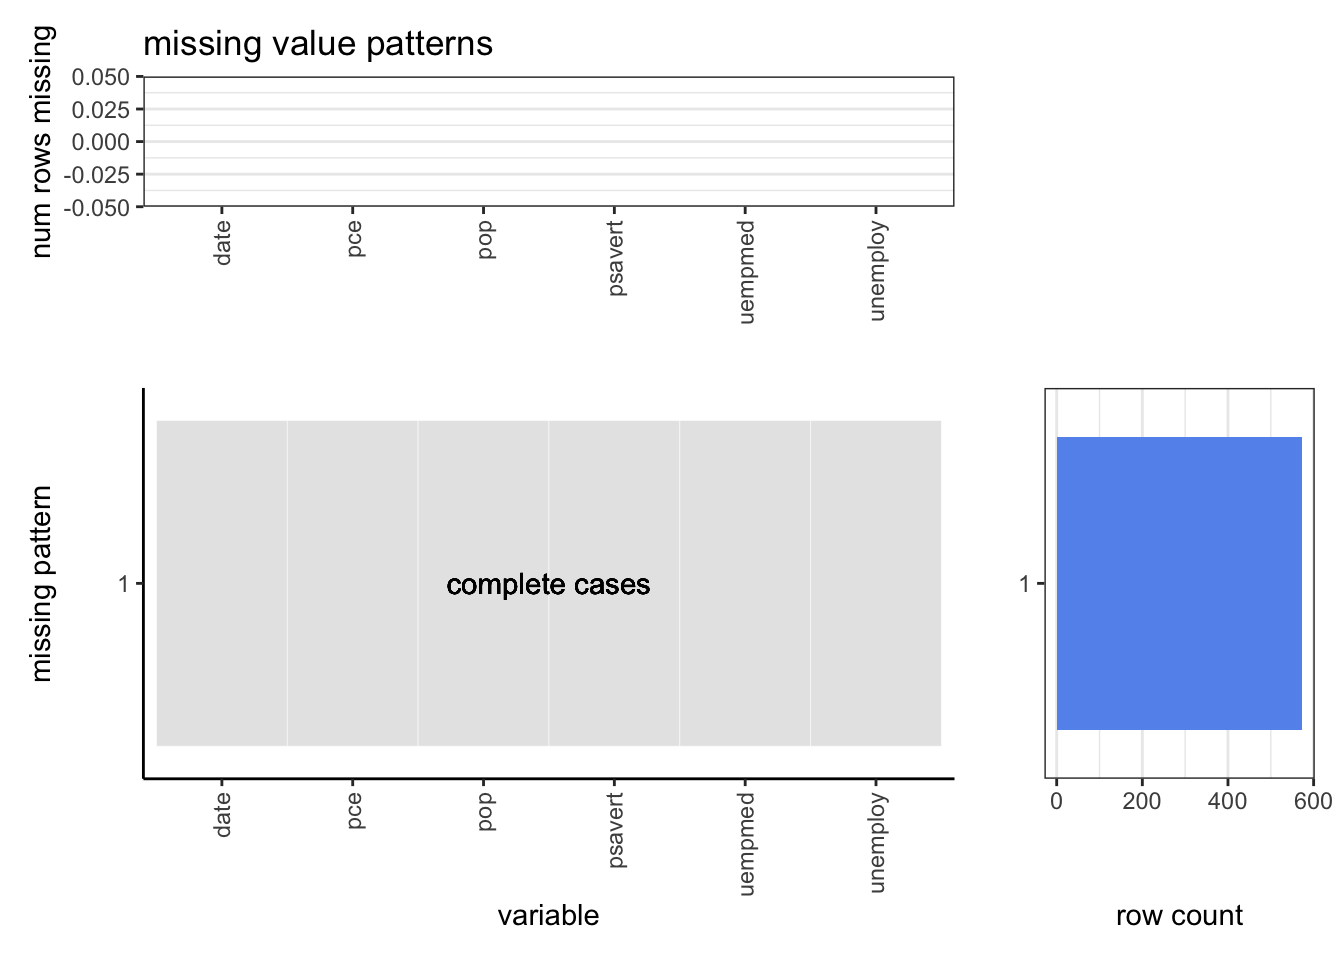
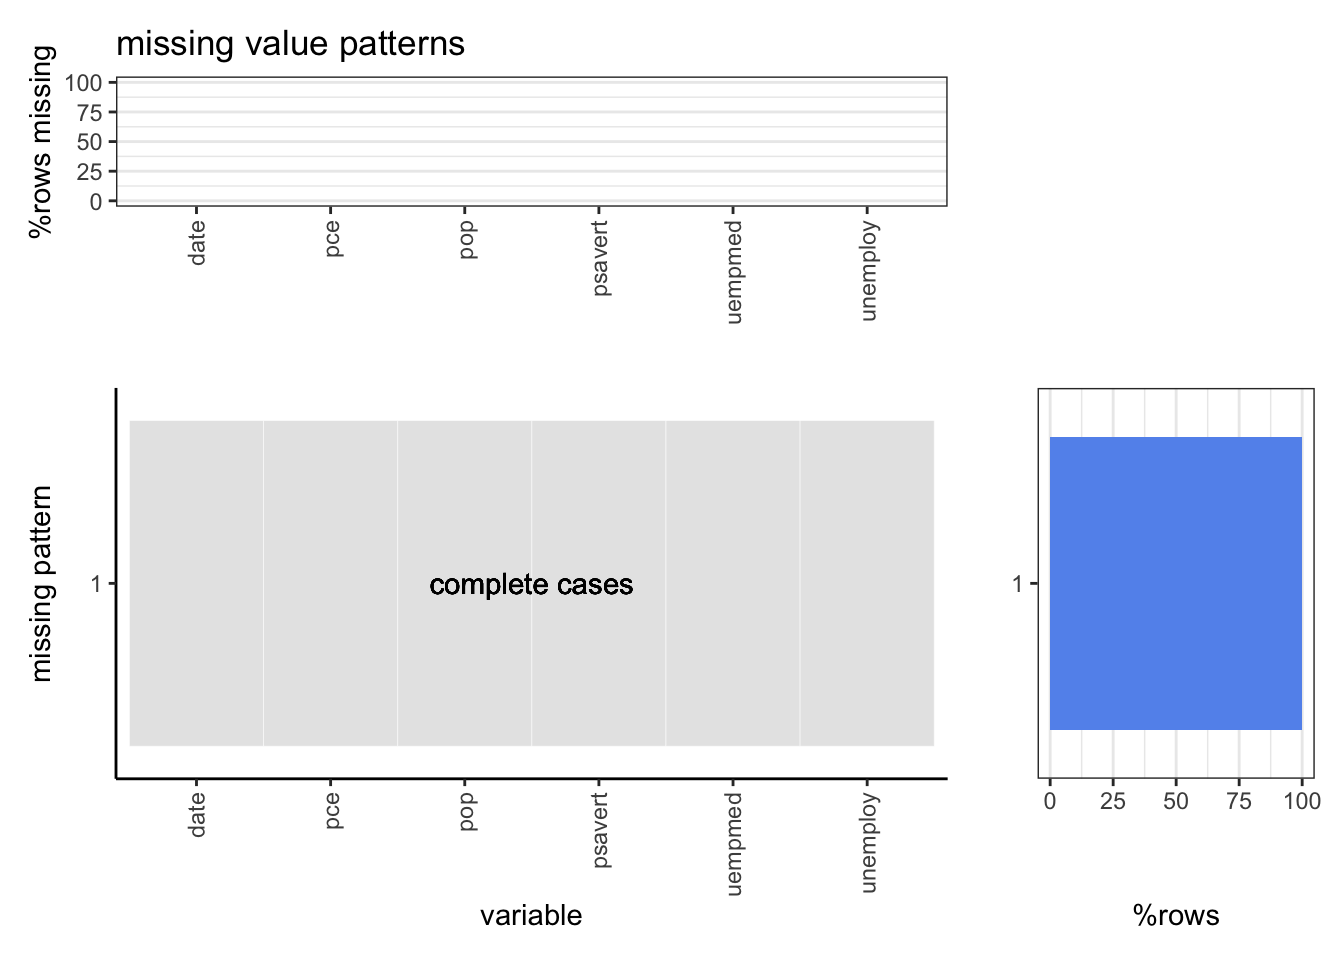
commit

diff --git a/docs/missing-values.html b/docs/missing-values.html
@@ -145,7 +145,7 @@ code span.wa { color: #60a0b0; font-weight: bold; font-style: italic; } /* Warni
 <li class="chapter" data-level="4.0.1" data-path="missing-values.html"><a href="missing-values.html#data-1"><i class="fa fa-check"></i><b>4.0.1</b> DATA-1</a></li>
 <li class="chapter" data-level="4.0.2" data-path="missing-values.html"><a href="missing-values.html#data-2"><i class="fa fa-check"></i><b>4.0.2</b> DATA-2</a></li>
 <li class="chapter" data-level="4.0.3" data-path="missing-values.html"><a href="missing-values.html#data-3"><i class="fa fa-check"></i><b>4.0.3</b> DATA-3</a></li>
-<li class="chapter" data-level="4.0.4" data-path="missing-values.html"><a href="missing-values.html#test"><i class="fa fa-check"></i><b>4.0.4</b> test</a></li>
+<li class="chapter" data-level="4.0.4" data-path="missing-values.html"><a href="missing-values.html#economic"><i class="fa fa-check"></i><b>4.0.4</b> economic</a></li>
 </ul></li>
 <li class="chapter" data-level="5" data-path="results.html"><a href="results.html"><i class="fa fa-check"></i><b>5</b> Results</a></li>
 <li class="chapter" data-level="6" data-path="interactive-component.html"><a href="interactive-component.html"><i class="fa fa-check"></i><b>6</b> Interactive component</a></li>
@@ -174,28 +174,30 @@ code span.wa { color: #60a0b0; font-weight: bold; font-style: italic; } /* Warni
 <div id="data-1" class="section level3" number="4.0.1">
 <h3><span class="header-section-number">4.0.1</span> DATA-1</h3>
 <div class="sourceCode" id="cb1"><pre class="sourceCode r"><code class="sourceCode r"><span id="cb1-1"><a href="missing-values.html#cb1-1" aria-hidden="true" tabindex="-1"></a><span class="fu">source</span>(<span class="st">&quot;plot_missing.R&quot;</span>)</span>
-<span id="cb1-2"><a href="missing-values.html#cb1-2" aria-hidden="true" tabindex="-1"></a>nyc <span class="ot">&lt;-</span> <span class="fu">read.csv</span>(<span class="st">&quot;NYPD_Arrests_Data__Historic_.csv&quot;</span>, <span class="at">nrows =</span> <span class="dv">100</span>)</span>
+<span id="cb1-2"><a href="missing-values.html#cb1-2" aria-hidden="true" tabindex="-1"></a>nyc <span class="ot">&lt;-</span> <span class="fu">read.csv</span>(<span class="st">&quot;NYPD_Arrests_Data__Historic_.csv&quot;</span>, <span class="at">nrows =</span> <span class="dv">1000</span>)</span>
 <span id="cb1-3"><a href="missing-values.html#cb1-3" aria-hidden="true" tabindex="-1"></a><span class="fu">plot_missing</span>(nyc, <span class="at">percent =</span> <span class="cn">TRUE</span>)</span></code></pre></div>
 <p><img src="finalproj_files/figure-html/unnamed-chunk-5-1.png" width="672" /></p>
-<p>Insights：
-Here in our missing value plot, we can conclude that our data quality is good totally. KY_CD has largest missing proportion, which is around 25%.
-This is a test for branch!!
-Final Test!!!!!!!!!!!</p>
+<p>Insights:
+* In order to draw the picture more clearly, we select 10,000 rows of data for missing value plot.
+* We can conclude that KY_CD and PD_CD have the highest percentage of missing value. Besides, X_COORD_CD, Y_COORD_CD, Latitude and Longitude belong to geographic location information and tend to miss together.
+* Since the proportion of missing value for all column is small in total, so our dataset’s quality is good. We may just remove the rows which has missing value when we do the following analysis.</p>
 </div>
 <div id="data-2" class="section level3" number="4.0.2">
 <h3><span class="header-section-number">4.0.2</span> DATA-2</h3>
 <div class="sourceCode" id="cb2"><pre class="sourceCode r"><code class="sourceCode r"><span id="cb2-1"><a href="missing-values.html#cb2-1" aria-hidden="true" tabindex="-1"></a>covid <span class="ot">&lt;-</span> <span class="fu">read.csv</span>(<span class="st">&quot;COVID-19_Daily_Counts_of_Cases__Hospitalizations__and_Deaths.csv&quot;</span>, <span class="at">nrows =</span> <span class="dv">100</span>)</span>
 <span id="cb2-2"><a href="missing-values.html#cb2-2" aria-hidden="true" tabindex="-1"></a><span class="fu">plot_missing</span>(covid, <span class="at">percent =</span> <span class="cn">TRUE</span>)</span></code></pre></div>
-<p><img src="finalproj_files/figure-html/unnamed-chunk-6-1.png" width="960" /></p>
+<p><img src="finalproj_files/figure-html/unnamed-chunk-6-1.png" width="960" />
+Insights:
+This is no missing value in this dataset~</p>
 </div>
 <div id="data-3" class="section level3" number="4.0.3">
 <h3><span class="header-section-number">4.0.3</span> DATA-3</h3>
-<div class="sourceCode" id="cb3"><pre class="sourceCode r"><code class="sourceCode r"><span id="cb3-1"><a href="missing-values.html#cb3-1" aria-hidden="true" tabindex="-1"></a>mental <span class="ot">&lt;-</span> <span class="fu">read.csv</span>(<span class="st">&quot;Mental_Health_Service_Finder_Data.csv&quot;</span>, <span class="at">nrows =</span> <span class="dv">100</span>)</span>
+<div class="sourceCode" id="cb3"><pre class="sourceCode r"><code class="sourceCode r"><span id="cb3-1"><a href="missing-values.html#cb3-1" aria-hidden="true" tabindex="-1"></a>data <span class="ot">&lt;-</span> <span class="fu">read.csv</span>(<span class="st">&quot;Mental_Health_Service_Finder_Data.csv&quot;</span>, <span class="at">nrows =</span> <span class="dv">100</span>)</span>
 <span id="cb3-2"><a href="missing-values.html#cb3-2" aria-hidden="true" tabindex="-1"></a><span class="co">#plot_missing(mental, percent = TRUE)</span></span></code></pre></div>
 </div>
-<div id="test" class="section level3" number="4.0.4">
-<h3><span class="header-section-number">4.0.4</span> test</h3>
-<div class="sourceCode" id="cb4"><pre class="sourceCode r"><code class="sourceCode r"><span id="cb4-1"><a href="missing-values.html#cb4-1" aria-hidden="true" tabindex="-1"></a><span class="fu">plot_missing</span>(economics)</span></code></pre></div>
+<div id="economic" class="section level3" number="4.0.4">
+<h3><span class="header-section-number">4.0.4</span> economic</h3>
+<div class="sourceCode" id="cb4"><pre class="sourceCode r"><code class="sourceCode r"><span id="cb4-1"><a href="missing-values.html#cb4-1" aria-hidden="true" tabindex="-1"></a><span class="fu">plot_missing</span>(economics, <span class="at">percent =</span> <span class="cn">TRUE</span>)</span></code></pre></div>
 <p><img src="finalproj_files/figure-html/unnamed-chunk-8-1.png" width="672" /></p>
 
 </div>

diff --git a/docs/conclusion.html b/docs/conclusion.html
@@ -145,7 +145,7 @@ code span.wa { color: #60a0b0; font-weight: bold; font-style: italic; } /* Warni
 <li class="chapter" data-level="4.0.1" data-path="missing-values.html"><a href="missing-values.html#data-1"><i class="fa fa-check"></i><b>4.0.1</b> DATA-1</a></li>
 <li class="chapter" data-level="4.0.2" data-path="missing-values.html"><a href="missing-values.html#data-2"><i class="fa fa-check"></i><b>4.0.2</b> DATA-2</a></li>
 <li class="chapter" data-level="4.0.3" data-path="missing-values.html"><a href="missing-values.html#data-3"><i class="fa fa-check"></i><b>4.0.3</b> DATA-3</a></li>
-<li class="chapter" data-level="4.0.4" data-path="missing-values.html"><a href="missing-values.html#test"><i class="fa fa-check"></i><b>4.0.4</b> test</a></li>
+<li class="chapter" data-level="4.0.4" data-path="missing-values.html"><a href="missing-values.html#economic"><i class="fa fa-check"></i><b>4.0.4</b> economic</a></li>
 </ul></li>
 <li class="chapter" data-level="5" data-path="results.html"><a href="results.html"><i class="fa fa-check"></i><b>5</b> Results</a></li>
 <li class="chapter" data-level="6" data-path="interactive-component.html"><a href="interactive-component.html"><i class="fa fa-check"></i><b>6</b> Interactive component</a></li>

diff --git a/docs/data-sources.html b/docs/data-sources.html
@@ -145,7 +145,7 @@ code span.wa { color: #60a0b0; font-weight: bold; font-style: italic; } /* Warni
 <li class="chapter" data-level="4.0.1" data-path="missing-values.html"><a href="missing-values.html#data-1"><i class="fa fa-check"></i><b>4.0.1</b> DATA-1</a></li>
 <li class="chapter" data-level="4.0.2" data-path="missing-values.html"><a href="missing-values.html#data-2"><i class="fa fa-check"></i><b>4.0.2</b> DATA-2</a></li>
 <li class="chapter" data-level="4.0.3" data-path="missing-values.html"><a href="missing-values.html#data-3"><i class="fa fa-check"></i><b>4.0.3</b> DATA-3</a></li>
-<li class="chapter" data-level="4.0.4" data-path="missing-values.html"><a href="missing-values.html#test"><i class="fa fa-check"></i><b>4.0.4</b> test</a></li>
+<li class="chapter" data-level="4.0.4" data-path="missing-values.html"><a href="missing-values.html#economic"><i class="fa fa-check"></i><b>4.0.4</b> economic</a></li>
 </ul></li>
 <li class="chapter" data-level="5" data-path="results.html"><a href="results.html"><i class="fa fa-check"></i><b>5</b> Results</a></li>
 <li class="chapter" data-level="6" data-path="interactive-component.html"><a href="interactive-component.html"><i class="fa fa-check"></i><b>6</b> Interactive component</a></li>

diff --git a/docs/data-transformation.html b/docs/data-transformation.html
@@ -145,7 +145,7 @@ code span.wa { color: #60a0b0; font-weight: bold; font-style: italic; } /* Warni
 <li class="chapter" data-level="4.0.1" data-path="missing-values.html"><a href="missing-values.html#data-1"><i class="fa fa-check"></i><b>4.0.1</b> DATA-1</a></li>
 <li class="chapter" data-level="4.0.2" data-path="missing-values.html"><a href="missing-values.html#data-2"><i class="fa fa-check"></i><b>4.0.2</b> DATA-2</a></li>
 <li class="chapter" data-level="4.0.3" data-path="missing-values.html"><a href="missing-values.html#data-3"><i class="fa fa-check"></i><b>4.0.3</b> DATA-3</a></li>
-<li class="chapter" data-level="4.0.4" data-path="missing-values.html"><a href="missing-values.html#test"><i class="fa fa-check"></i><b>4.0.4</b> test</a></li>
+<li class="chapter" data-level="4.0.4" data-path="missing-values.html"><a href="missing-values.html#economic"><i class="fa fa-check"></i><b>4.0.4</b> economic</a></li>
 </ul></li>
 <li class="chapter" data-level="5" data-path="results.html"><a href="results.html"><i class="fa fa-check"></i><b>5</b> Results</a></li>
 <li class="chapter" data-level="6" data-path="interactive-component.html"><a href="interactive-component.html"><i class="fa fa-check"></i><b>6</b> Interactive component</a></li>

diff --git a/docs/index.html b/docs/index.html
@@ -145,7 +145,7 @@ code span.wa { color: #60a0b0; font-weight: bold; font-style: italic; } /* Warni
 <li class="chapter" data-level="4.0.1" data-path="missing-values.html"><a href="missing-values.html#data-1"><i class="fa fa-check"></i><b>4.0.1</b> DATA-1</a></li>
 <li class="chapter" data-level="4.0.2" data-path="missing-values.html"><a href="missing-values.html#data-2"><i class="fa fa-check"></i><b>4.0.2</b> DATA-2</a></li>
 <li class="chapter" data-level="4.0.3" data-path="missing-values.html"><a href="missing-values.html#data-3"><i class="fa fa-check"></i><b>4.0.3</b> DATA-3</a></li>
-<li class="chapter" data-level="4.0.4" data-path="missing-values.html"><a href="missing-values.html#test"><i class="fa fa-check"></i><b>4.0.4</b> test</a></li>
+<li class="chapter" data-level="4.0.4" data-path="missing-values.html"><a href="missing-values.html#economic"><i class="fa fa-check"></i><b>4.0.4</b> economic</a></li>
 </ul></li>
 <li class="chapter" data-level="5" data-path="results.html"><a href="results.html"><i class="fa fa-check"></i><b>5</b> Results</a></li>
 <li class="chapter" data-level="6" data-path="interactive-component.html"><a href="interactive-component.html"><i class="fa fa-check"></i><b>6</b> Interactive component</a></li>

diff --git a/docs/interactive-component.html b/docs/interactive-component.html
@@ -145,7 +145,7 @@ code span.wa { color: #60a0b0; font-weight: bold; font-style: italic; } /* Warni
 <li class="chapter" data-level="4.0.1" data-path="missing-values.html"><a href="missing-values.html#data-1"><i class="fa fa-check"></i><b>4.0.1</b> DATA-1</a></li>
 <li class="chapter" data-level="4.0.2" data-path="missing-values.html"><a href="missing-values.html#data-2"><i class="fa fa-check"></i><b>4.0.2</b> DATA-2</a></li>
 <li class="chapter" data-level="4.0.3" data-path="missing-values.html"><a href="missing-values.html#data-3"><i class="fa fa-check"></i><b>4.0.3</b> DATA-3</a></li>
-<li class="chapter" data-level="4.0.4" data-path="missing-values.html"><a href="missing-values.html#test"><i class="fa fa-check"></i><b>4.0.4</b> test</a></li>
+<li class="chapter" data-level="4.0.4" data-path="missing-values.html"><a href="missing-values.html#economic"><i class="fa fa-check"></i><b>4.0.4</b> economic</a></li>
 </ul></li>
 <li class="chapter" data-level="5" data-path="results.html"><a href="results.html"><i class="fa fa-check"></i><b>5</b> Results</a></li>
 <li class="chapter" data-level="6" data-path="interactive-component.html"><a href="interactive-component.html"><i class="fa fa-check"></i><b>6</b> Interactive component</a></li>

diff --git a/docs/results.html b/docs/results.html
@@ -145,7 +145,7 @@ code span.wa { color: #60a0b0; font-weight: bold; font-style: italic; } /* Warni
 <li class="chapter" data-level="4.0.1" data-path="missing-values.html"><a href="missing-values.html#data-1"><i class="fa fa-check"></i><b>4.0.1</b> DATA-1</a></li>
 <li class="chapter" data-level="4.0.2" data-path="missing-values.html"><a href="missing-values.html#data-2"><i class="fa fa-check"></i><b>4.0.2</b> DATA-2</a></li>
 <li class="chapter" data-level="4.0.3" data-path="missing-values.html"><a href="missing-values.html#data-3"><i class="fa fa-check"></i><b>4.0.3</b> DATA-3</a></li>
-<li class="chapter" data-level="4.0.4" data-path="missing-values.html"><a href="missing-values.html#test"><i class="fa fa-check"></i><b>4.0.4</b> test</a></li>
+<li class="chapter" data-level="4.0.4" data-path="missing-values.html"><a href="missing-values.html#economic"><i class="fa fa-check"></i><b>4.0.4</b> economic</a></li>
 </ul></li>
 <li class="chapter" data-level="5" data-path="results.html"><a href="results.html"><i class="fa fa-check"></i><b>5</b> Results</a></li>
 <li class="chapter" data-level="6" data-path="interactive-component.html"><a href="interactive-component.html"><i class="fa fa-check"></i><b>6</b> Interactive component</a></li>
